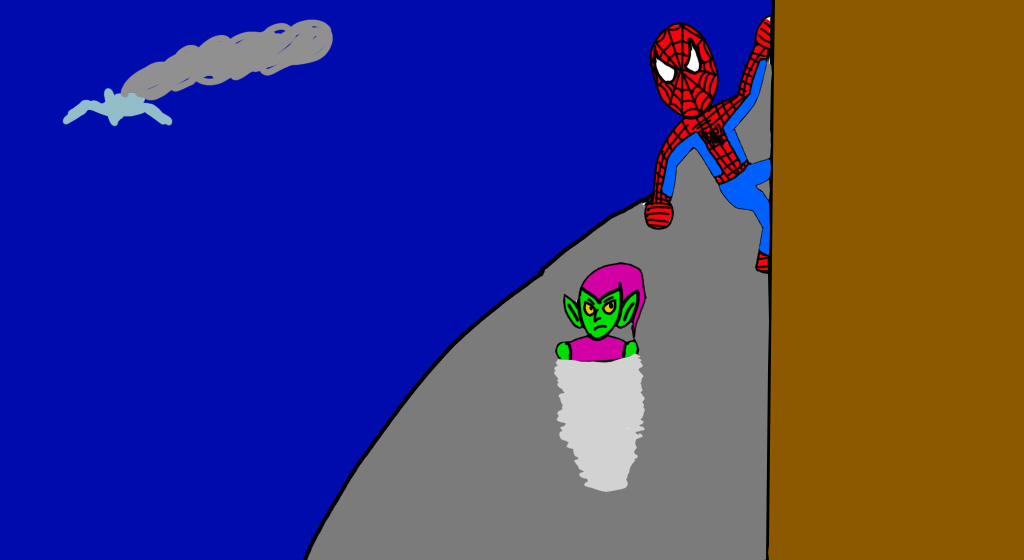
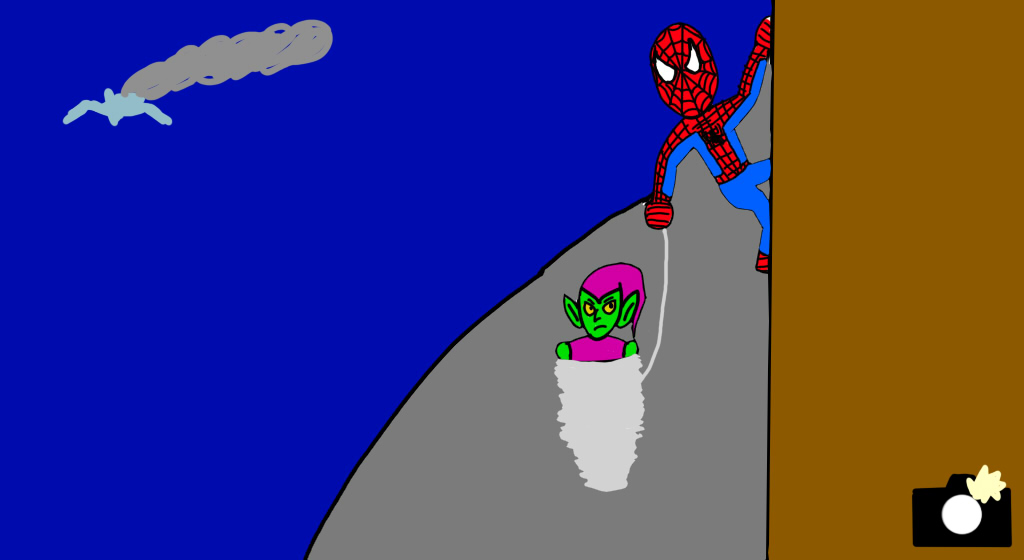
almost done

Changed region(s): [[0.875, 0.8196, 1.0, 1.0], [0.625, 0.425, 0.6562, 0.6679]]

diff --git a/doctor_octopus/stage_three.html b/doctor_octopus/stage_three.html
@@ -1,0 +1,31 @@
+<!DOCTYPE html>
+
+<html>
+    <head>
+        <meta charset="utf-8">
+        <meta http-equiv="X-UA-Compatible" content="IE=edge">
+        <title>Level 2: Doctor Octopus </title>
+        <meta name="description" content="">
+        <meta name="viewport" content="width=device-width, initial-scale=1">
+        <link rel="stylesheet" href="../styles.css">
+    </head>
+    <body>
+        <center>
+            <h1 style="color: crimson;">
+                "Not if I have anything to say about it!"
+            </h1>
+            <h1 style="color:peru;">
+                "Curses! It's Spider-Man! You won't get in my way this time!"
+            </h1>
+            <h1 style="color:gold">
+                How will Spider-Man defeat the mad doctor? Click on Doc Ock to try and defeat him.
+            </h1>
+            <img src="spidey_doc-ock_standoff.jpg" width="1024" height="728" usemap="#standoff">
+            <map name="standoff">
+                <area href="spidey_wrapped.html" coords="128,328,330,603" shape="rect" class="throw-punch">
+                <area href="web_glasses.html" coords="193,269,66" shape="circle" class="go-web">
+                <area href="web_tentacle.html" coords="296,44,40" shape="circle" class="go-web">
+            </map>
+        </center>
+    </body>
+</html>

diff --git a/green_goblin/stage_four.html b/green_goblin/stage_four.html
@@ -11,10 +11,18 @@
     </head>
     <body>
         <center>
+            <h1 style="color:crimson; font-style:italic">
+                I gotta stop the Goblin! But how?
+            </h1>
+            <h1 style="color:gold">
+                You have entered a fight scene. Click on parts of the image and see what Spidey can do to defeat the Green Goblin!
+            </h1>
             <img src="villain standoff.jpg" width="1024" height="728" usemap="#standoff">
             <map name="standoff">
-                <area href="miss.html" alt="" coords="438, 560, 673, 170" shape="rect">
-                <area href="hit.html" alt="" coords="49, 704, 651, 557" shape="rect" onclick="saveValue()">
+                <area href="miss.html" alt="" coords="438, 560, 673, 170" shape="rect" id = "fight"
+                class="throw-punch">
+                <area href="hit.html" alt="" coords="49, 704, 651, 557" shape="rect" onclick="saveValue()" id = "fight"
+                class="throw-punch">
             </map>
         </center>
     </body>

diff --git a/doctor_octopus/stage_two.html b/doctor_octopus/stage_two.html
@@ -11,11 +11,11 @@
     </head>
     <body>
         <center>
-            <h1 style="color:peru;">
-                "Mwahaha, all the money in this bank is mine!"
+            <h1 style="color: peru;">
+                "When I complete my experiment, the world will feel the wrath of Doctor Octopus!"
             </h1>
-            <a href="stage_two.html">
-                <img src="doc ock breaks vault.jpg" width="1024" height="728">
+            <a href="stage_three.html">
+                <img src="villain_intro.jpg" width="1024" height="560">
             </a>
         </center>
     </body>

diff --git a/styles.css b/styles.css
@@ -2,3 +2,15 @@ body {
     background-image: url('../Project2/media/background_web.png');
     background-color:darkblue;
 }
+
+.throw-punch {
+    cursor: url(cursor/boxing_glove.png), auto;
+}
+
+.spidey-idea {
+    cursor: url(cursor/idea.png), auto;
+}
+
+.go-web {
+    cursor: url(cursor/web.png), auto;
+}
